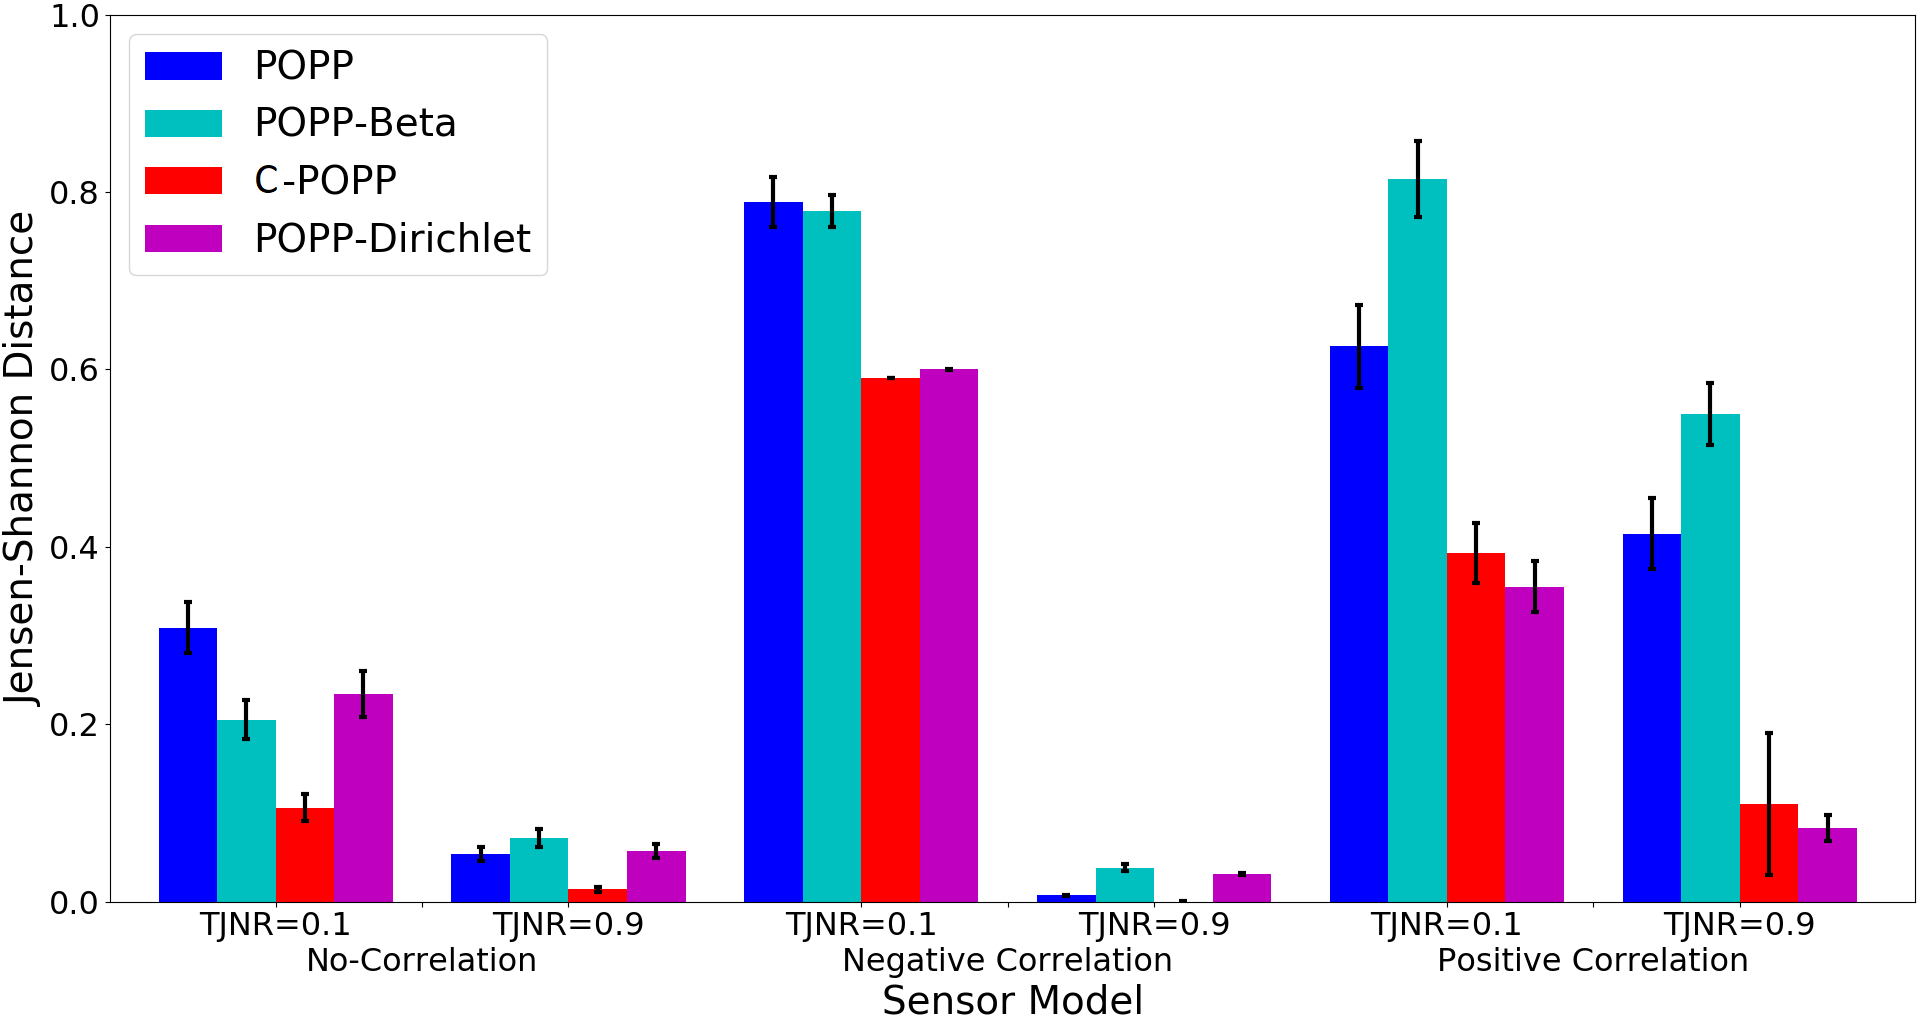
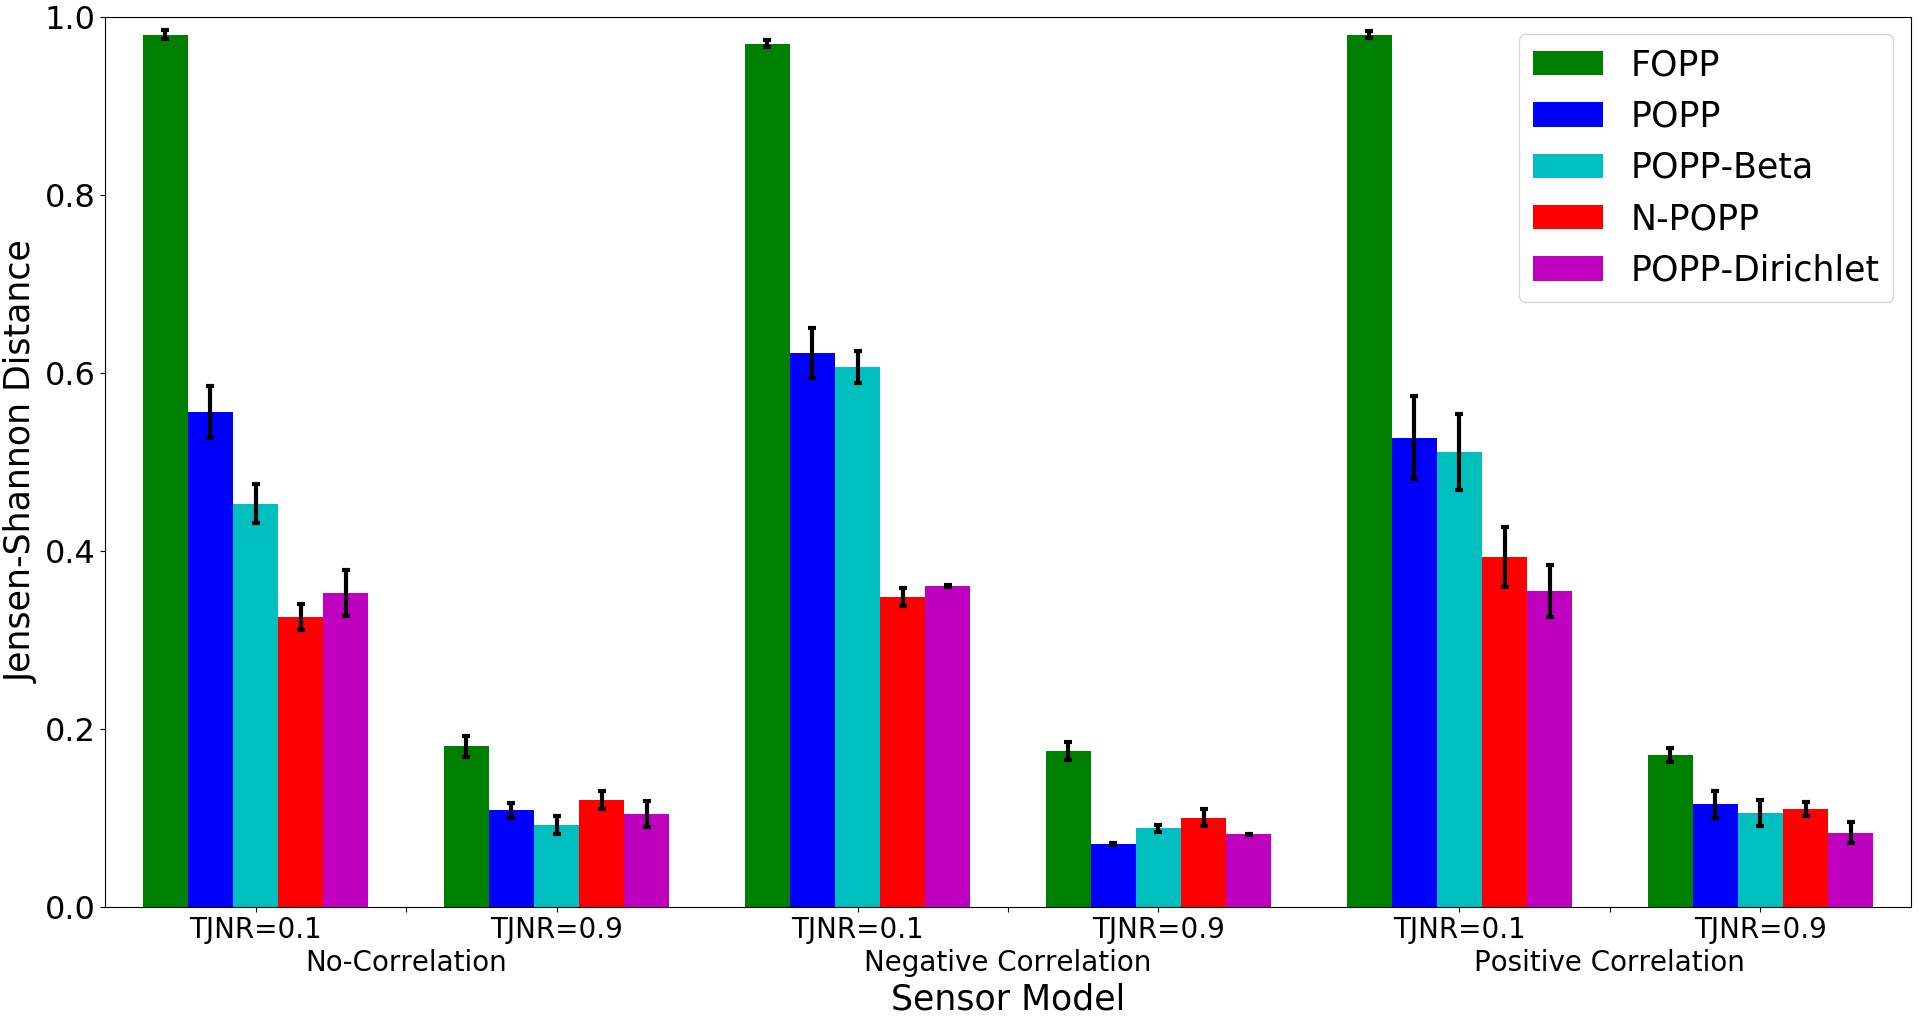
fixing figures 2,3,4,5

Changed region(s): [[0.0, 0.0305, 1.0, 1.0], [0.7812, 0.0305, 0.9062, 0.1218], [0.0312, 0.0, 0.0625, 0.0305]]

diff --git a/src/evasim.tex b/src/evasim.tex
@@ -1,7 +1,7 @@
 \section{Evaluation on Synthetic Data}
 \label{sec:evasim}
 
-Evaluation on synthetic data is used to establish the benefit of POPPs' variations over the POPP in estimating the arrival rate $\lambda$ of a Poisson process. With synthetic data, sensor reliability can be controlled, and the true $\lambda$ and the true counts $c_i$ are known in advance for each sample. Based on the result that is shown in \cite{jovan18a}, we assume that the POPP outperforms the FOPP in simulated data. Hence, the FOPP is not included here for comparison.
+Evaluation on synthetic data is used to establish the benefit of POPP and its variations over the The uncorrected estimate according to the FOPP model in estimating the arrival rate $\lambda$ of a Poisson process. With synthetic data, sensor reliability can be controlled, and the true $\lambda$ and the true counts $c_i$ are known in advance for each sample.
 
 Here, an evaluation and a comparison of the POPP models to the FOPP model are conducted with two imaginary unreliable sensors and simulated datasets. The switching filter is chosen as a filter for all POPP models for this evaluation. 
 
@@ -10,14 +10,14 @@ In each experiment, the sensor model (for the POPP and POPP-Beta models) and joi
 \begin{figure}[t!]
 	\centering
 	\includegraphics[width=0.5\textwidth]{./figures/tjpr_comparison_120.png}
-    \caption{The RMSE of posterior estimates of $\lambda$ for the POPP-Dirichlet and other POPP models with 120 sample data used to build the (joint) sensor model with variation on $\mathcal{E^+}$. Each trial consisted of a stream of $\protect\overrightarrow{s_1} \ldots \protect\overrightarrow{s_{144}}$ samples to update $P(\lambda ; \protect\overrightarrow{s_i})$. Accuracies of MAP estimates are shown in the top panel, accuracies of expectation of the posterior in the bottom panel. Each data point is an average of 30 trials. Standard errors are shown.} 
+    \caption{The RMSE of posterior estimates of $\lambda$ for the POPP and its variation models with 120 sample data used to build the (joint) sensor model with variation on $\mathcal{E^+}$. All models are compared to the FOPP model. Each trial consisted of a stream of $\protect\overrightarrow{s_1} \ldots \protect\overrightarrow{s_{144}}$ samples to update $P(\lambda ; \protect\overrightarrow{s_i})$. Accuracies of MAP estimates are shown in the top panel, accuracies of expectation of the posterior in the bottom panel. Each data point is an average of 30 trials. Standard errors are shown.} 
 	\label{fig:tjpr_comparison_120}
 \end{figure}
 
 \begin{figure}[t!]
 	\centering
 	\includegraphics[width=0.5\textwidth]{./figures/tjpr_comparison_120_kl.png}
-	\caption{The Jensen-Shannon distance of posterior estimates of $\lambda$ for the POPP-Dirichlet and other POPP models with 120 sample data used to build the (joint) sensor model with variation on $\mathcal{E^+}$. Each trial consisted of a stream of $\protect\overrightarrow{s_1} \ldots \protect\overrightarrow{s_{144}}$ samples to update $P_G(\lambda \mid \protect\overrightarrow{s_i})$. Each data point is an average of 30 trials. Standard errors are shown.} 
+	\caption{The Jensen-Shannon distance of posterior estimates of $\lambda$ for the POPP and its variation models with 120 sample data used to build the (joint) sensor model with variation on $\mathcal{E^+}$. All models are compared to the FOPP model. Each trial consisted of a stream of $\protect\overrightarrow{s_1} \ldots \protect\overrightarrow{s_{144}}$ samples to update $P_G(\lambda \mid \protect\overrightarrow{s_i})$. Each data point is an average of 30 trials. Standard errors are shown.} 
 	\label{fig:tjpr_comparison_120_kl}
 \end{figure}
 
@@ -48,14 +48,14 @@ The performance of all POPP models were assessed by comparing how accurate each 
 \begin{figure}[t!]
 	\centering
 	\includegraphics[width=0.5\textwidth]{./figures/tjnr_comparison_120.png}
-    \caption{The RMSE of posterior estimates of $\lambda$ for the POPP-Dirichlet and other POPP models with 120 sample data used to build the (joint) sensor model with variation in $\mathcal{E^-}$. Each trial consisted of a stream of $\protect\overrightarrow{s_1} \ldots \protect\overrightarrow{s_{144}}$ samples to update $P(\lambda ; \protect\overrightarrow{s_i})$. Accuracies of MAP estimates are  in the top panel, accuracies of the expectation of the posterior in the bottom panel. Each data point is an average of 30 trials. Standard errors are shown.} 
+    \caption{The RMSE of posterior estimates of $\lambda$ for the POPP and its variation models with 120 sample data used to build the (joint) sensor model with variation in $\mathcal{E^-}$. All models are compared to the FOPP model. Each trial consisted of a stream of $\protect\overrightarrow{s_1} \ldots \protect\overrightarrow{s_{144}}$ samples to update $P(\lambda ; \protect\overrightarrow{s_i})$. Accuracies of MAP estimates are  in the top panel, accuracies of the expectation of the posterior in the bottom panel. Each data point is an average of 30 trials. Standard errors are shown.} 
 	\label{fig:tjnr_comparison_120}
 \end{figure}
 
 \begin{figure}[t!]
 	\centering
 	\includegraphics[width=0.5\textwidth]{./figures/tjnr_comparison_120_kl.png}
-	\caption{The Jensen-Shannon distance of posterior estimates of $\lambda$ for the POPP-Dirichlet and other POPP models with 120 sample data used to build the (joint) sensor model with variation on $\mathcal{E^-}$. Each trial consisted of a stream of $\protect\overrightarrow{s_1} \ldots \protect\overrightarrow{s_{144}}$ samples to update $P_G(\lambda \mid \protect\overrightarrow{s_i})$. Each data point is an average of 30 trials. Standard errors are shown.} 
+	\caption{The Jensen-Shannon distance of posterior estimates of $\lambda$ for the POPP and its variation models with 120 sample data used to build the (joint) sensor model with variation on $\mathcal{E^-}$. All models are compared to the FOPP model. Each trial consisted of a stream of $\protect\overrightarrow{s_1} \ldots \protect\overrightarrow{s_{144}}$ samples to update $P_G(\lambda \mid \protect\overrightarrow{s_i})$. Each data point is an average of 30 trials. Standard errors are shown.} 
 	\label{fig:tjnr_comparison_120_kl}
 \end{figure}
 
